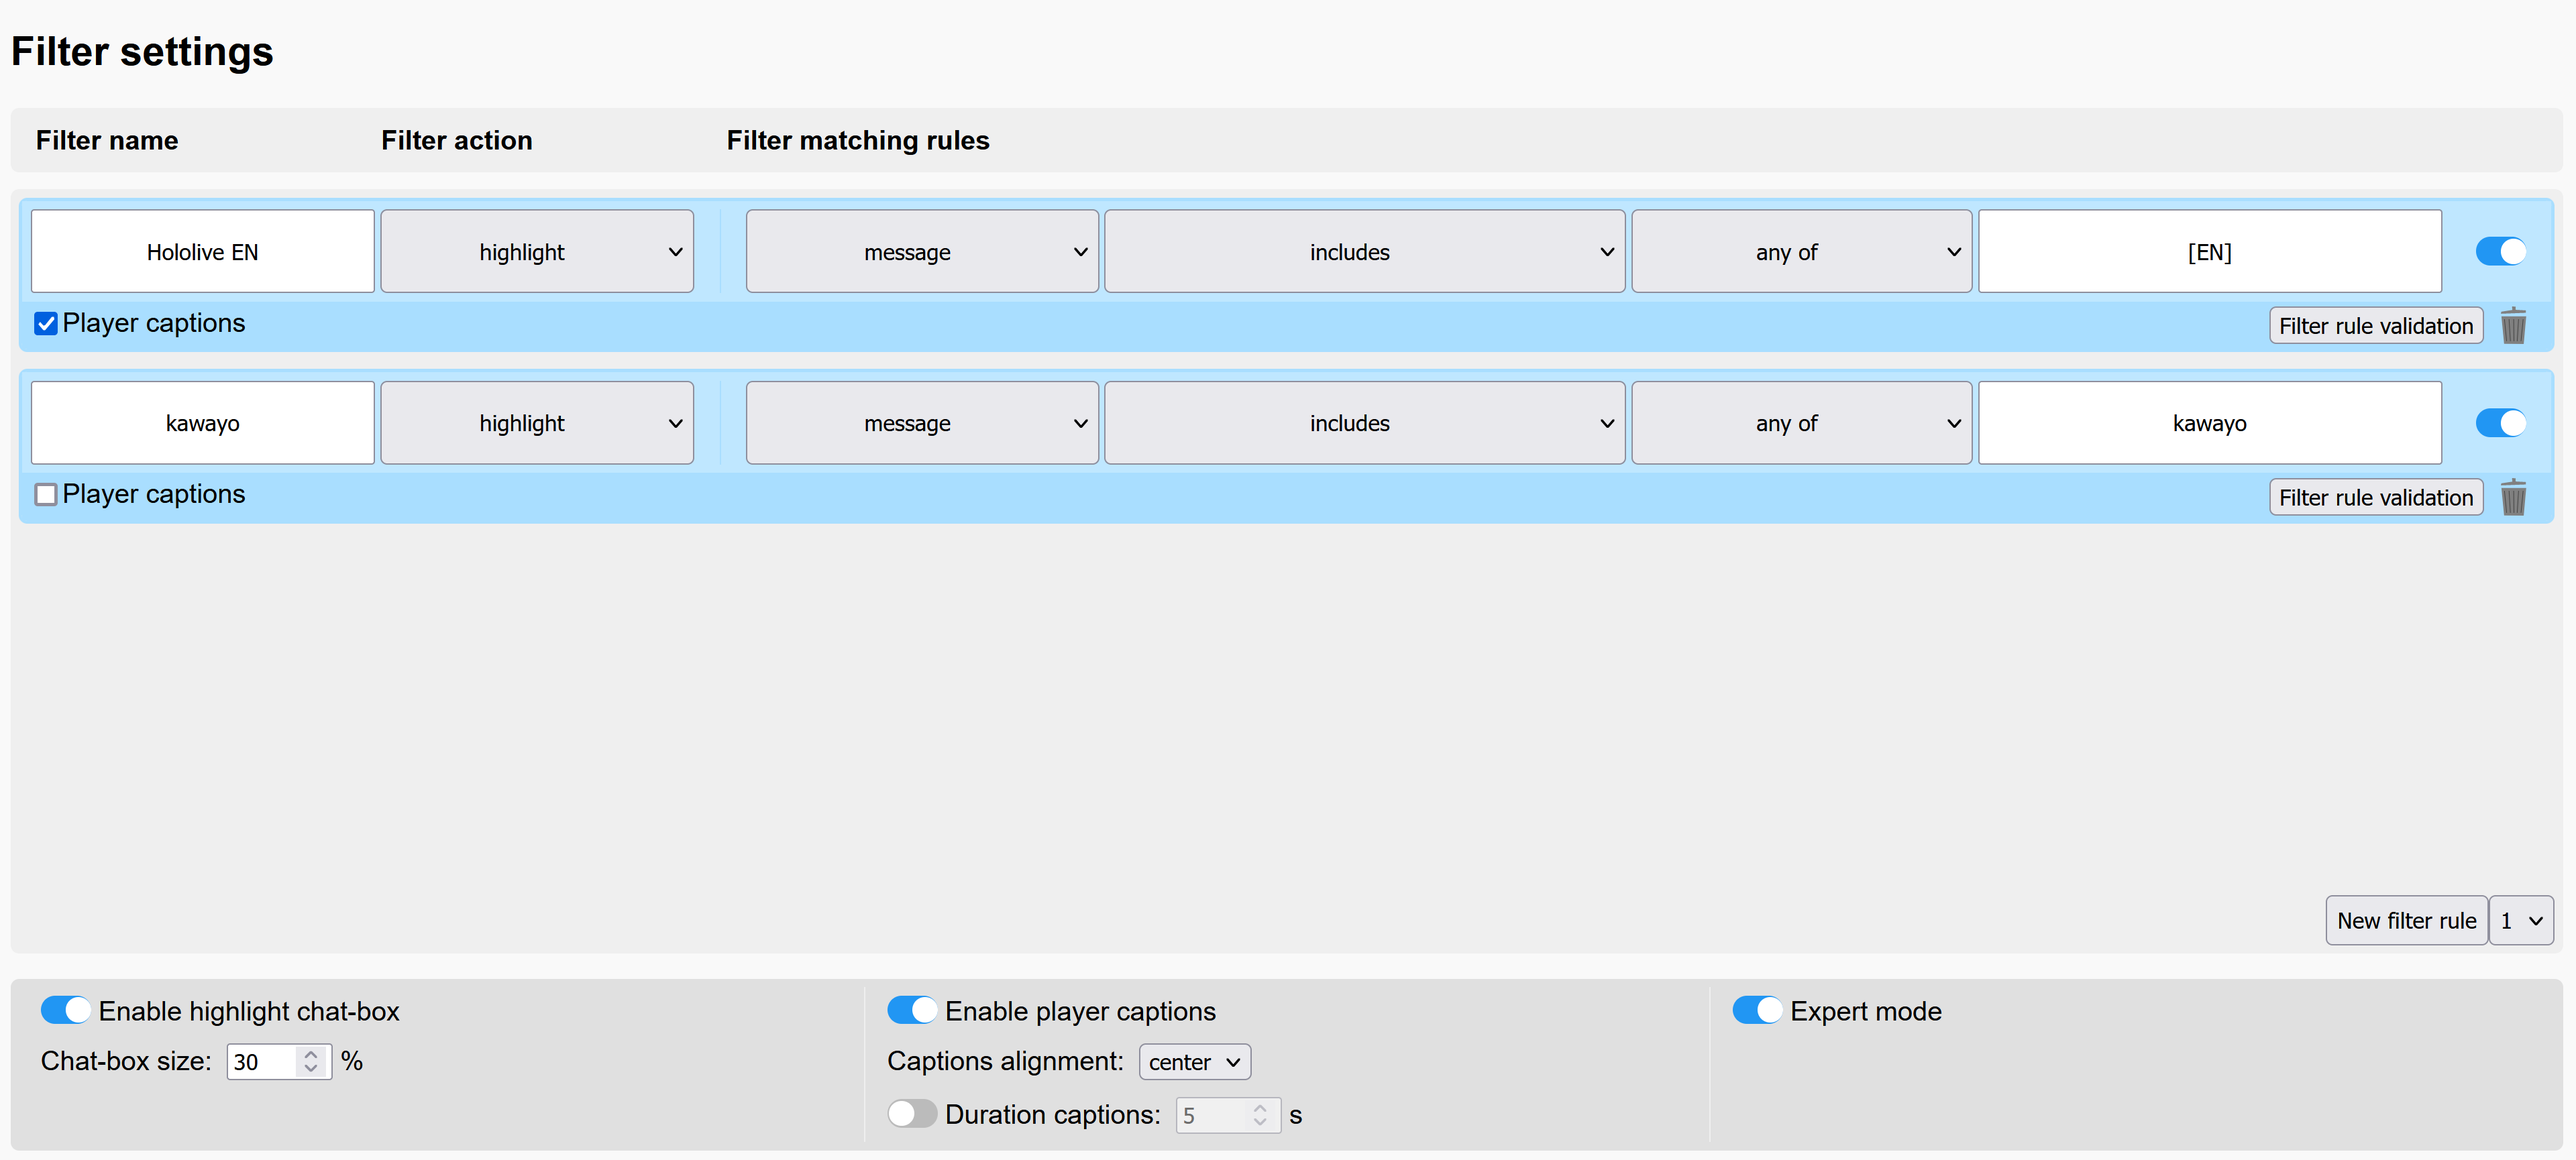
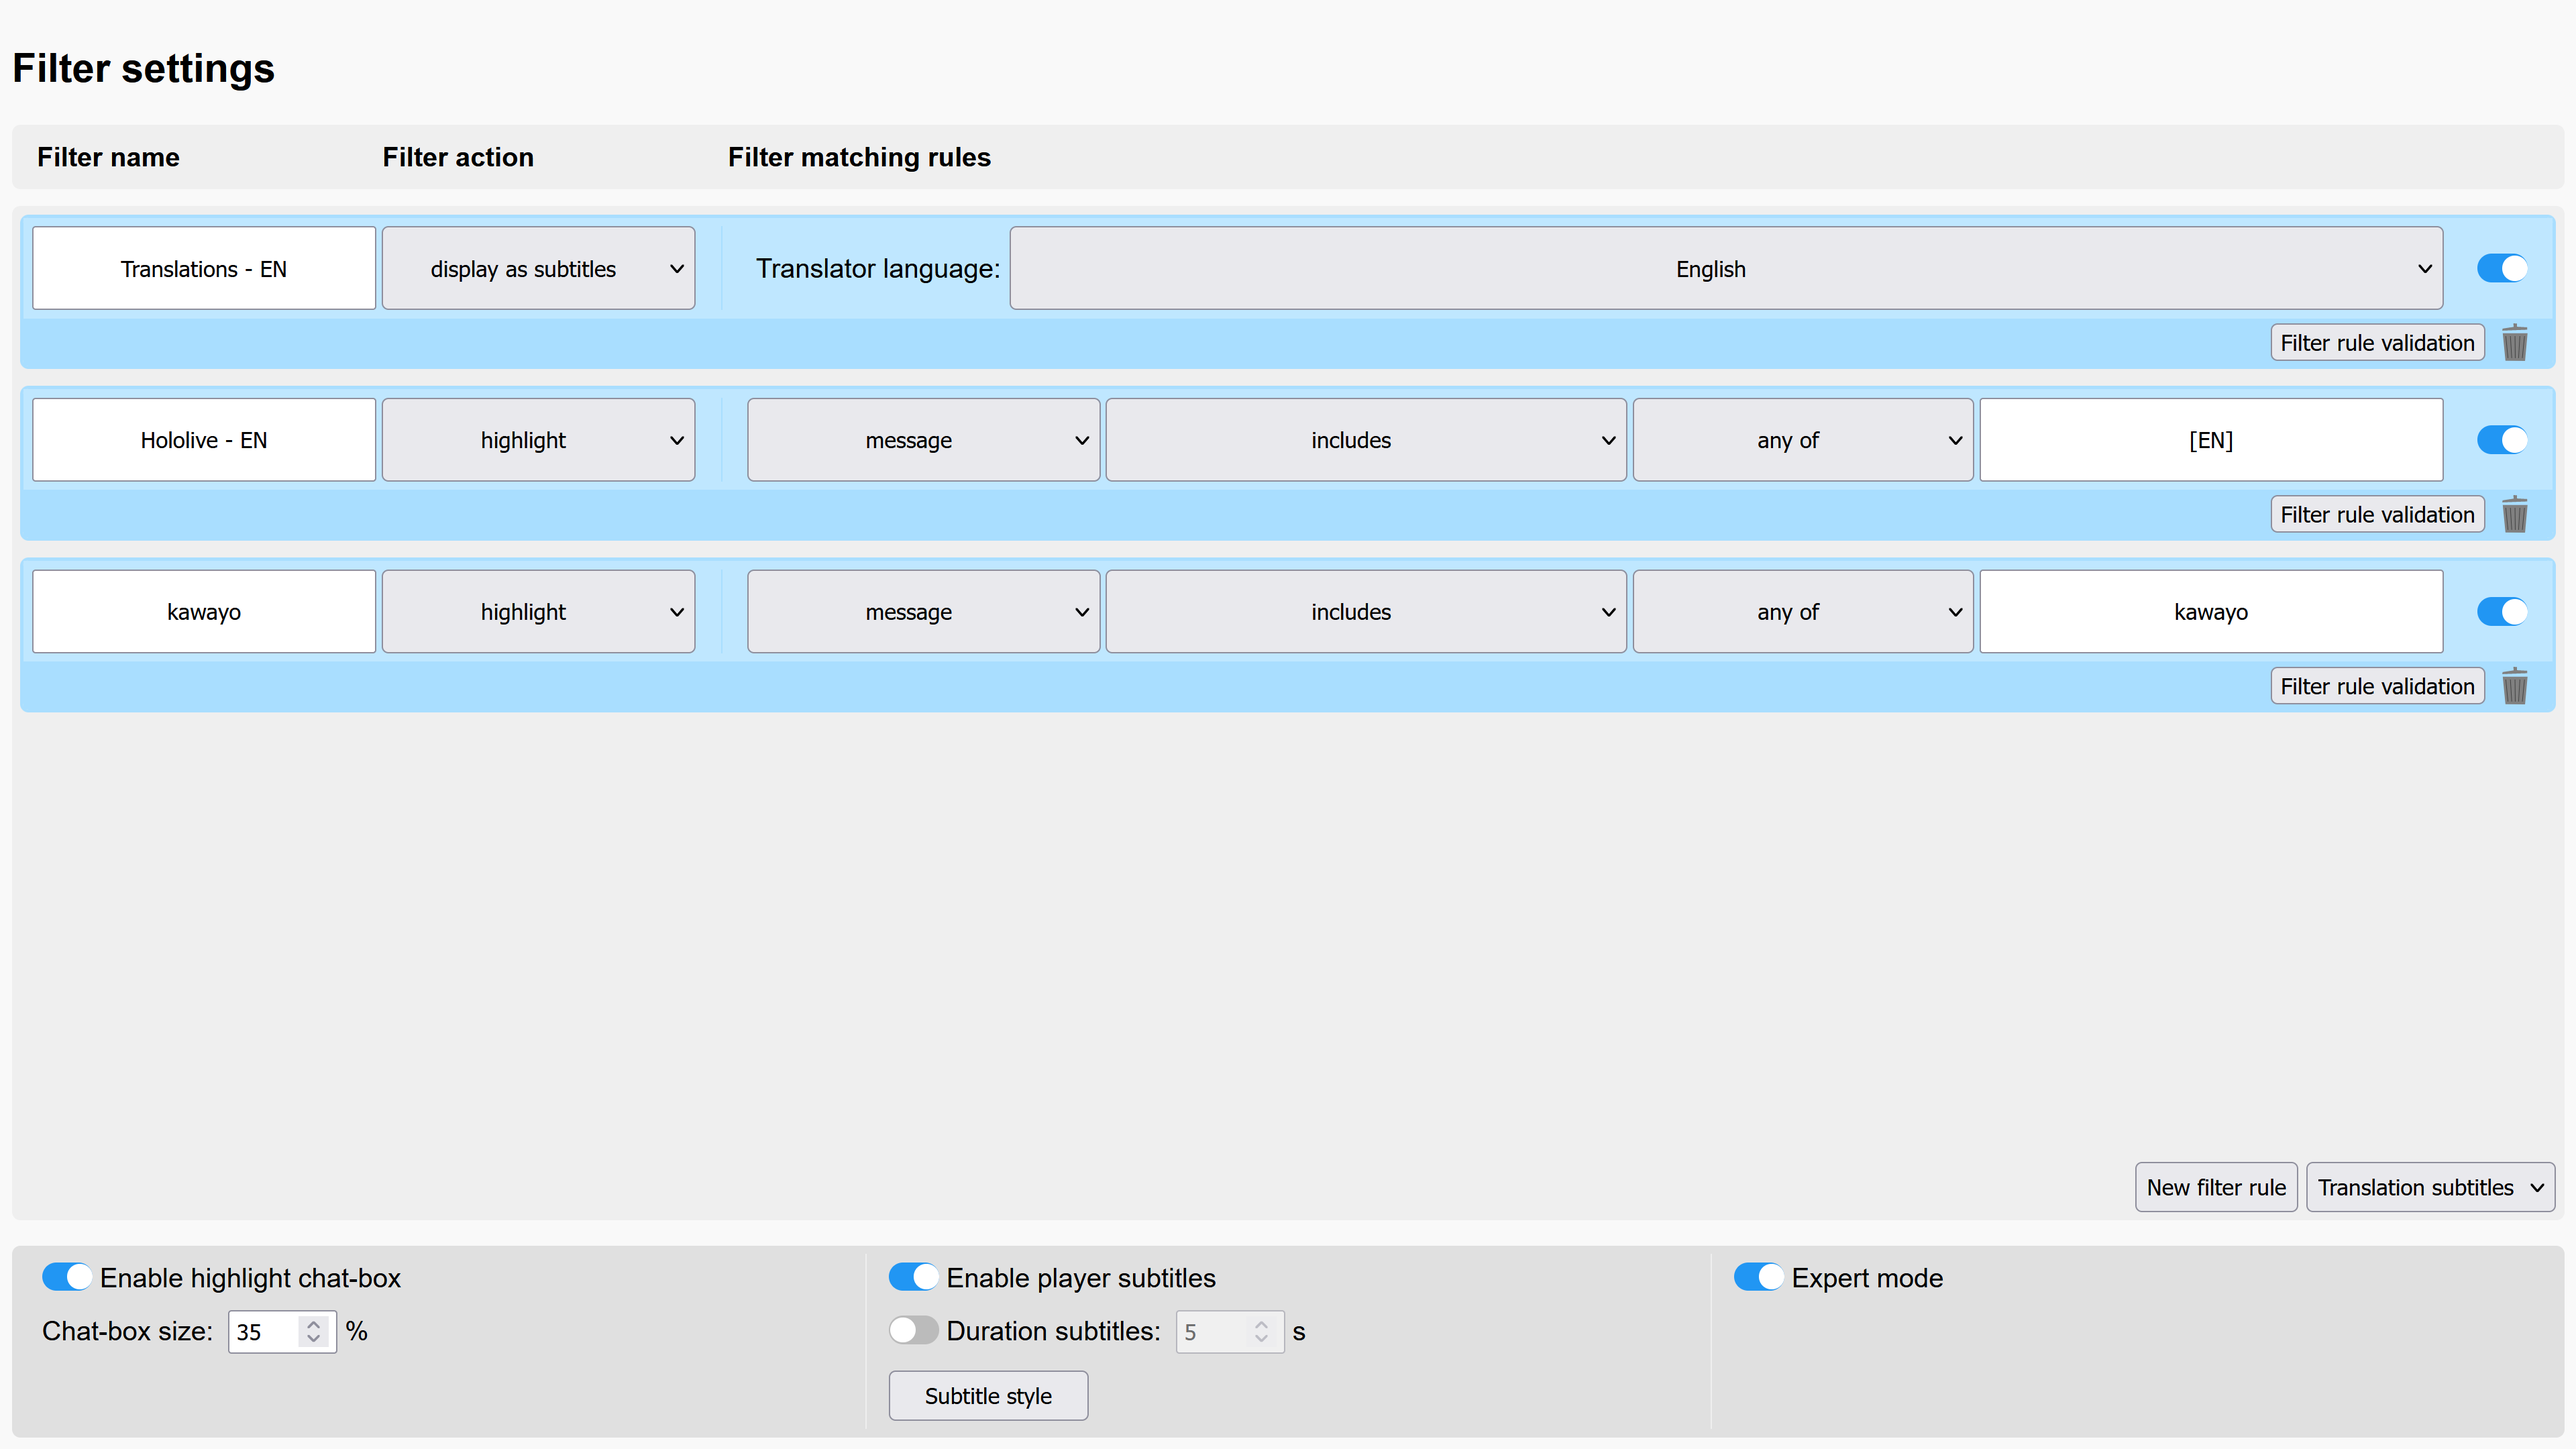
Improved storage for loading unedfined settings Improved description Removed bug

Changed region(s): [[0.0, 0.0936, 1.0, 0.4994], [0.0, 0.7803, 1.0, 0.9988], [0.0, 0.0312, 0.125, 0.0624]]

diff --git a/add-on/storage.js b/add-on/storage.js
@@ -9,5 +9,71 @@ function sync_set(json, callback) {
  * Gets json-data of storage
  */
 function sync_get(array, callback) {
-	chrome.storage.local.get(array, callback);
+    chrome.storage.local.get(array, (result) => {
+        
+        for (let id of array) {
+            switch (id) {
+                case "size":
+                    result.size = result.size || 30;
+                    break;
+                case "enableHighlight":
+                    if (result.enableHighlight === undefined) {
+                        result.enableHighlight = true;
+                    }
+                    break;
+                case "expertMode":
+                    if (result.expertMode === undefined) {
+                        result.expertMode = false
+                    }
+                    break;
+                case "filters":
+                    result.filters = result.filters || [{
+                        name: "Hololive EN",
+                        type: "subtitles",
+                        data: new Language("en").json(),
+                        enable: true
+                    },
+                    {
+                        name: "Hololive EN",
+                        type: "highlight",
+                        data: new StringRegex("includes", new StringOption("message"), new TextElement("[EN]"), new LogicalArray("some")).json(),
+                        enable: true
+                    }];
+
+                    // For users of v0.1.5
+                    for (let filter of result.filters) {
+                        if (filter.type == "captions") {
+                            filter.type = "subtitles";
+                            sync_set({ filters: result.filters });
+                        }
+                    }
+                    break;
+                case "enableOverlay":
+                    if (result.enableOverlay === undefined) {
+                        result.enableOverlay = true;
+                    }
+                    break;
+                case "overlayStyle":
+                    result.overlayStyle = result.overlayStyle || {
+                        fontSize: "1",
+                        fontColor: "white",
+                        fontOpacity: "1",
+                        backgroundColor: "black",
+                        backgroundOpacity: "0.75",
+                        fontFamily: "p_sans-serif",
+                        align: "center"
+                    };
+                case "enableOverlayDuration":
+                    if (result.enableOverlayDuration === undefined) {
+                        result.enableOverlayDuration = false;
+                    }
+                    break;
+                case "overlayDuration":
+                    result.overlayDuration = result.overlayDuration || 5;
+                    break;
+            }
+        }
+
+        callback(result);
+    });
 }

diff --git a/add-on/settings/settings.js b/add-on/settings/settings.js
@@ -33,36 +33,14 @@ class Setting {
      */
     restoreOptions() {
 
-        sync_get(["size", "enable_highlight", "expertMode", "filters", "enableOverlay", "overlayAlign", "enableOverlayDuration", "overlayDuration"], (result) => {
-            this.size = result.size || 30;
+        sync_get(["size", "enableHighlight", "expertMode", "filters", "enableOverlay", "enableOverlayDuration", "overlayDuration"], (result) => {
+            this.size = result.size;
             this.enableHighlight = result.enableHighlight;
             this.enableOverlay = result.enableOverlay;
-            this.overlayAlign = result.overlayAlign || "left";
             this.enableOverlayDuration = result.enableOverlayDuration;
-            this.overlayDuration = result.overlayDuration || 5;
+            this.overlayDuration = result.overlayDuration;
             this.expertMode = result.expertMode;
-            this.filters = result.filters || [{
-                name: "Hololive EN",
-                type: "subtitles",
-                data: new Language("en").json(),
-                enable: true
-            }];
-
-            if (this.enableHighlight === undefined) {
-                this.enableHighlight = true;
-            }
-
-            if (this.enableOverlay === undefined) {
-                this.enableOverlay = false;
-            }
-
-            if (this.enableOverlayDuration === undefined) {
-                this.enableOverlayDuration = true;            
-            }
-
-            if (this.expertMode === undefined) {
-                this.expertMode = false;
-            }
+            this.filters = result.filters;
 
             // Filter elements from JSON data, adds filter elements to filter manager
             for (let filter of this.filters) {

diff --git a/add-on/youtube_filter.js b/add-on/youtube_filter.js
@@ -166,10 +166,6 @@ class YouTubeFilter {
     loadOverlayOptions() {
         sync_get(["enableOverlay"], (result) => {
             this.enableOverlay = result.enableOverlay;
-
-            if (this.enableOverlay === undefined) {
-                this.enableOverlay = false;
-            }
         });
     }
 
@@ -179,17 +175,9 @@ class YouTubeFilter {
     loadOptions() {
 
         sync_get(["size", "enableHighlight", "enableOverlay"], (result) => {
-            this.size = result.size || 30;
+            this.size = result.size;
             this.enableHighlight = result.enableHighlight;
             this.enableOverlay = result.enableOverlay;
-
-            if (this.enableHighlight === undefined) {
-                this.enableHighlight = true;
-            }
-
-            if (this.enableOverlay === undefined) {
-                this.enableOverlay = true;
-            }
 
             this.setHighlightBox();
 
@@ -203,12 +191,7 @@ class YouTubeFilter {
     loadFilters() {
 
         sync_get(["filters"], (result) => {
-            this.filters = result.filters || [{
-                name: "Hololive EN",
-                type: "subtitles",
-                data: new Language("en").json(),
-                enable: true
-            }];
+            this.filters = result.filters;
 
             // Parses Filter data for logical evaluation and string matching
             this.filters = parseJSON(this.filters);

diff --git a/add-on/youtube_overlay.js b/add-on/youtube_overlay.js
@@ -131,25 +131,9 @@
     loadOptions() {
         sync_get(["enableOverlay", "overlayStyle", "enableOverlayDuration", "overlayDuration"], (result) => {
             let enableOverlay = result.enableOverlay;
-            let overlayStyle = result.overlayStyle || {
-                "fontSize": "1",
-                "fontColor": "white",
-                "fontOpacity": "1",
-                "backgroundColor": "black",
-                "backgroundOpacity": "0.25",
-                "fontFamily": "p_sans-serif",
-                "align": "center"
-            };
+            let overlayStyle = result.overlayStyle;
             let enableOverlayDuration = result.enableOverlayDuration;
-            let overlayDuration = result.overlayDuration || 5;
-
-            if (enableOverlay === undefined) {
-                enableOverlay = false;
-            }
-
-            if (enableOverlayDuration === undefined) {
-                enableOverlayDuration = true;
-            }
+            let overlayDuration = result.overlayDuration;
 
             // Disable overlayDuration
             if (!enableOverlayDuration) {

diff --git a/add-on/settings/overlay_settings/overlay_settings.js b/add-on/settings/overlay_settings/overlay_settings.js
@@ -28,15 +28,7 @@ class OverlaySettings extends PopUpWindow {
      */
     loadOptions() {
         sync_get(["overlayStyle"], (result) => {
-            this.overlayStyle = result.overlayStyle || {
-                "fontSize": "1",
-                "fontColor": "white",
-                "fontOpacity": "1",
-                "backgroundColor": "black",
-                "backgroundOpacity": "0.25",
-                "fontFamily": "p_sans-serif",
-                "align": "center"
-            };
+            this.overlayStyle = result.overlayStyle;
 
             this.update();
         });

diff --git a/README.md b/README.md
@@ -2,28 +2,28 @@
 
 
 ## About
-The add-on modifies the YouTube live-chat for both live-streams and re-play, allowing to either highlight, show as video captions, or delete chat-messages matching a set of customizable filter rules. This is usefull e.g. for highlighting Hololive live-chat translator messages, or deleting annoying messages and emoji.
+The add-on modifies the YouTube live-chat for both live-streams and re-play, allowing to either highlight, show as video captions, or delete chat-messages matching a set of customizable filter rules. This is useful e.g. for highlighting Hololive live-chat translator messages, or deleting annoying messages and emoji.
 
 The main features of the add-on are:
-- Highlighting of YouTube live-chat messages via a separated chat-box
-- View selected highlighted live-chat messages as video player captions
-- Deleting YouTube live-chat messages
-- Customizable filter rules, allowing to either enter simple search-texts, or to use more complex options (e.g. Regular Expressions)
-- Light- and Dark-theme support
-- When changing filter rules at the settings page, the settings are immediately applied to opened YouTube pages
-- Visual design close to YouTube's live-chat and video player design, aiming to not change the look of the YouTube website
+<ul>
+    <li>Highlighting of YouTube live-chat messages via a separated chat-box</li>
+    <li>View selected highlighted live-chat messages as customizable subtitles for YouTube</li>
+    <li>Delete YouTube live-chat messages</li>
+    <li>Customizable filter rules, allowing to either enter simple search-texts, or to use more complex options (e.g. Regular Expressions)</li>
+    <li>Light- and Dark-theme support</li>
+    <li>When changing filter rules at the settings page, the settings are immediately applied to opened YouTube pages</li>
+    <li>Visual design close to YouTube's live-chat and video player design, aiming to not change the look of the YouTube website</li>
+</ul>
+
+If there are features or improvements for this add-on you'd like to suggest, please go to the GitHub page of this add-on https://github.com/MengeTM/Filter-For-YouTube-Live-Chats/issues for writing an Issue, or please leave a review for this add-on. I would really appreciate feedback and ideas, for how to further improve this add-on ^_^.
 
 More detailed description of add-on features:
 
 For highlighting chat-messages, the YouTube live-chat is separated vertically into two live-chats. The upper one is the original one, while the lower one displays chat-messages you may filter for. The sizes of the chat-boxes are adjustable via dragging the separator line between the chat-boxes up or down. The highlight chat-box is removable via the settings page and the YouTube live-chat drop-down menu.
 
-Furthermore, it is possible to view chat-messages from some filter rules as video player captions. If the chat-message is a translator chat-message, e.g. starting with [EN] for English, the translator tag [EN] is not displayed for a more immersive viewing experience. 
+The settings are preset to highlight common chat-based English translations of Japanese Hololive streams (at least the ones I watch). Furthermore, it is possible to view chat-messages as subtitles for the YouTube video player. If the subtitle chat-message is a translator chat-message, e.g. starting with [EN] for English, the translator tag [EN] is not displayed for a more immersive viewing experience. The style of the subtitle Font and Background is furthermore cusomizable via the settings page.
 
-The add-on settings-page allows to set one or several filter rules. The filter rules search either the author-name or the message of a chat-message for search-texts. When a filter rule matches a chat-message, it will be either highlighted or removed, where rules higher up in the filter rule list are applied first. The filter rules are draggable up or down the list. Furthermore, Regular Expressions are available as filters when enabling the expert mode. The expert mode further enables a validation window, for validating if a filter rule matches example YouTube live-chat authors and messages.
-
-The settings are preset to highlight for common chat-based English translations of Japanese Hololive streams (at least the ones I watch). If you want to add new translator filter rules, add a new filter rule and then set as the search-text the language code within [] brackets. This is [EN] for English, [DE] for German, [JP] for Japanese, and similar for other languages.
-
-Please write me if you encounter some bugs or you would like some features to be implemented, by opening an Issue at the GitHub page https://github.com/MengeTM/Filter-For-YouTube-Live-Chats/issues of this add-on.
+The add-on settings-page allows to add either simple translator filter rules for showing e.g. Hololive translator messages, or to add customizable filter-rules. The customizable filter rules search either the author-name or the message of a chat-message for search-texts. When a filter rule matches a chat-message, it will be either highlighted, shown as YouTube player subtitles, or deleted, where filter rules higher up in the filter rule list are applied first. The filter rules are draggable up or down the list for adjusting their priorities. Regular Expressions are available for filter rules when enabling the expert mode. The expert mode further enables a window for validating if your filter rule matches example YouTube live-chat authors and messages, which is especially useful if you are not sure if your customized filter rule will match YouTube messages.
 
 ## Installation
 Before installing the add-on, rename either "manifes_mozilla.json" for Mozilla Firefox, or "manifest_goofle.json" for Google Chrome in "manifes.json".
